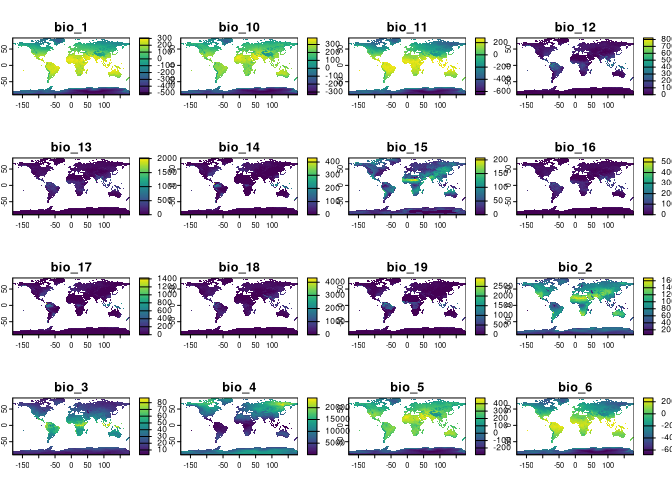
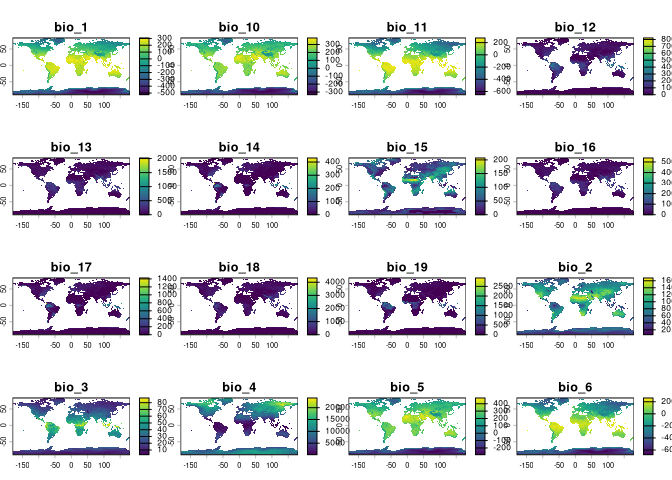
Add downloads badge to README

diff --git a/README.md b/README.md
@@ -11,9 +11,11 @@ developed.](https://www.repostatus.org/badges/latest/active.svg)](https://www.re
 [![CRAN
 status](https://www.r-pkg.org/badges/version/rpaleoclim)](https://CRAN.R-project.org/package=rpaleoclim)
 [![R-CMD-check](https://github.com/joeroe/rpaleoclim/actions/workflows/R-CMD-check.yaml/badge.svg)](https://github.com/joeroe/rpaleoclim/actions/workflows/R-CMD-check.yaml)
-[![Codecov test
+[![Test
 coverage](https://codecov.io/gh/joeroe/rpaleoclim/graph/badge.svg)](https://app.codecov.io/gh/joeroe/rpaleoclim)
+
 [![DOI](https://zenodo.org/badge/199434717.svg)](https://zenodo.org/badge/latestdoi/199434717)
+[![](https://cranlogs.r-pkg.org/badges/rpaleoclim)](https://cran.rstudio.com/web/packages/rpaleoclim/index.html)
 <!-- badges: end -->
 
 [PaleoClim](http://www.paleoclim.org) is a set of free, high resolution
@@ -59,7 +61,7 @@ paleoclim("lh", "10m") |>
   plot()
 ```
 
-<img src="man/figures/README-rpaleoclim-demo-1.png" width="100%" />
+<img src="man/figures/README-rpaleoclim-demo-1.png" alt="" width="100%" />
 
 By default, files from PaleoClim are cached in a local temporary
 directory to avoid repeated download of the same data.
